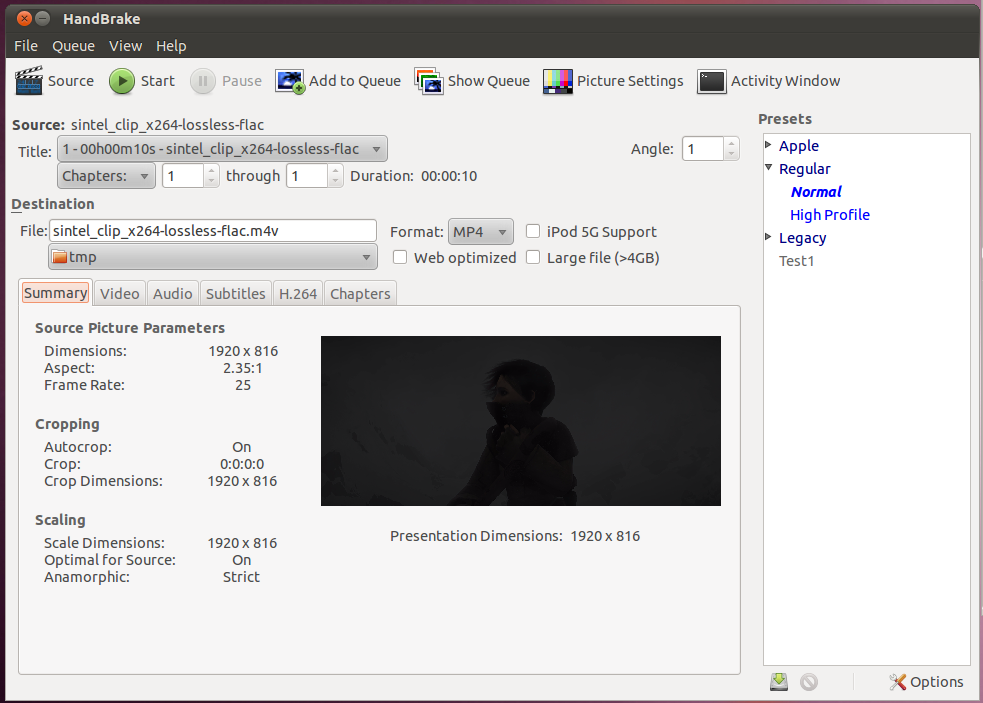
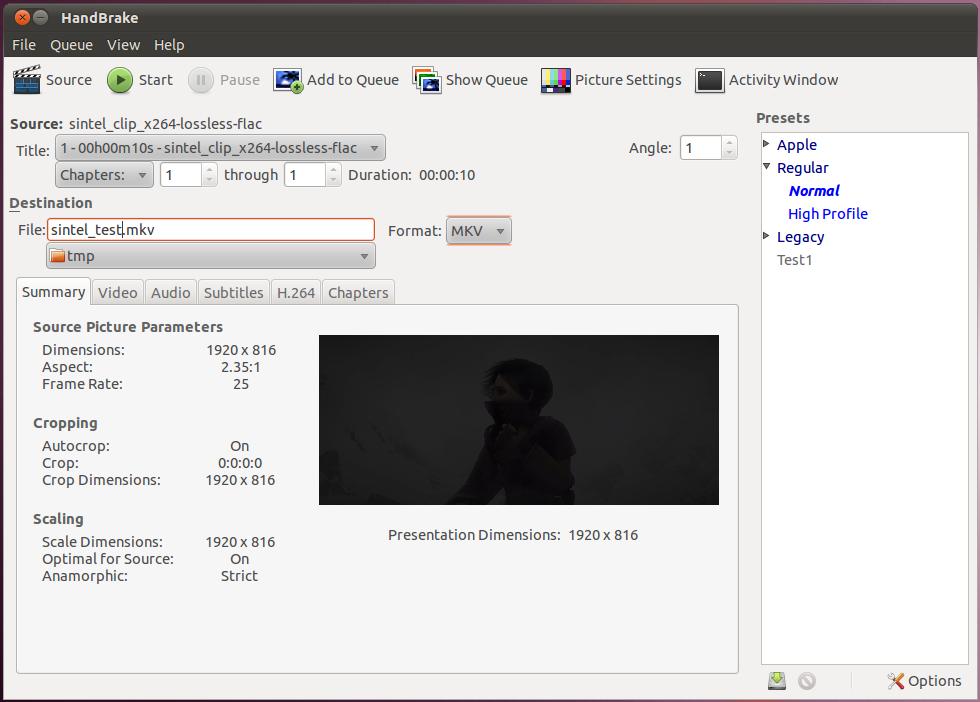
Handbrake section.

diff --git a/Video/Video-4-Handbrake.html b/Video/Video-4-Handbrake.html
@@ -1,5 +1,128 @@
-<h2>Handbrake&nbsp;</h2>Handbrake is a video transcoder that can take in video of one format (typical computer video, but also DVD or BluRay format) and output a video in one of several popular formats.<br><br>To show the conversion in action, we are going to open <a href="http://jp2-s1/vid_test/sintel_clip_x264-lossless-flac.mkv">this</a> (Institute Only) lossless segment of the sintel trailer, and use Handbrake to make a compressed version of it.<br><br>Lets start up Handbrake.<br><img src="Screen/Handbrake.png" alt="Handbrake.png"><br>Click the Source button and load the video we want to convert.<br><br>Once the video is loaded, you will see a lot of the information on the screen populated.<br><img src="Screen/Handbrake-Loaded.png" alt="Handbrake-Loaded.png"><br>The "Source:" section contains information about our video.&nbsp; In this case, it says it is 10 seconds long, and there is only one chapter and angle.&nbsp; For videos coming off of a DVD or BluRay this may have multiple chapters and/or angles.<br><br>The "Destination" has the file we will write the output to.&nbsp; The only two options are MP4 (MPEG 4) or MKV (Matroska).&nbsp; For MP4, it is possible to check the "Web optimized" box.&nbsp; This puts information about the video in the front of the file, so if you put it on a web-page it can start playing before the entire video has been downloaded.<br><br>On the summary tab, there is information about the input video, specifically dimensions (which give the aspect ratio) and the frame rate.&nbsp; <br><br>Going to the video tab gives us options for compressing the video. <br><br><br>
+<!DOCTYPE HTML PUBLIC "-//W3C//DTD HTML 4.01 Transitional//EN">
+<html><head>
+  <title>Video - 4 - Handbrake</title>
+
+  
+</head><body>
+<h2>Handbrake&nbsp;</h2>
+
+Handbrake is a video transcoder that can take in video of one format
+(typical computer video, but also DVD or BluRay format) and output a
+video in one of several popular formats.<br>
+
+<br>
+
+To show the conversion in action, we are going to open <a href="http://jp2-s1/vid_test/sintel_clip_x264-lossless-flac.mkv">this</a>
+(Institute Only) lossless segment of the sintel trailer, and use
+Handbrake to make a compressed version of it.<br>
+
+<br>
+
+Lets start up Handbrake.<br>
+
+<img src="Screen/Handbrake.png" alt="Handbrake.png"><br>
+
+Click the Source button and load the video we want to convert.<br>
+
+<br>
+
+Once the video is loaded, you will see a lot of the information on the
+screen populated.<br>
+
+<img src="Screen/Handbrake-Loaded.png" alt="Handbrake-Loaded.png"><br>
+
+The "Source:" section contains information about our video.&nbsp; In
+this case, it says it is 10 seconds long, and there is only one chapter
+and angle.&nbsp; For videos coming off of a DVD or BluRay this may have
+multiple chapters and/or angles.<br>
+
+<br>
+
+The "Destination" has the file we will write the output to.&nbsp; The
+only two options are MP4 (MPEG 4) or MKV (Matroska).&nbsp; For MP4, it
+is possible to check the "Web optimized" box.&nbsp; This puts
+information about the video in the front of the file, so if you put it
+on a web-page it can start playing before the entire video has been
+downloaded.<br>
+
+<br>
+
+On the summary tab, there is information about the input video,
+specifically dimensions (which give the aspect ratio) and the frame
+rate.&nbsp; <br>
+
+<br>
+
+Going to the video tab gives us options for compressing the video. <br>
+
+<img style="width: 979px; height: 704px;" src="Screen/Handbrake-Video.png" alt="Handbrake-Video.png"><br>
+
+The video codec options that are available are: H.264, MPEG 4 (Part 2),
+and Theora (not availble with MP4).&nbsp; To the right, there are
+options for specifying how the encoder should determine the size of the
+file.&nbsp; You can set the average bit-rate that you desire, or you
+can set the size of the final file you would like and the encoder will
+figure out what bit-rate it can use.&nbsp; When either of these options
+are set, you can enable 2-Pass encoding with the check-box on the left.
+There is also a third option which is to set the quality of the final
+video.&nbsp; Smaller numbers mean higher quality and higher file size,
+lower numbers are lower quality and file size.&nbsp; <br>
+
+<br>
+
+<img src="Screen/Handbrake-Audio.png" alt="Handbrake-Audio.png"><br>
+
+On the Audio tab are the options for encoding each track of
+audio.&nbsp; Handbrake will allow you to put multiple tracks of audio
+into one file (multiple languages, a track with the director's
+comentary, etc) that the viewer can then select while they are watching
+the video.&nbsp; For each track of audio, a codec (AAC, MP3, Vorbis
+(only available in MKV format), or AC3) can be selected along with a
+bit-rate.&nbsp; <br>
+
+<br>
+
+<img src="Screen/Handbrake-Subtitles.png" alt="Handbrake-Subtitles.png"><br>
+
+The subtitles page is similar to the audio page, in that you can have
+several subtitle tracks built in to the single video file.&nbsp; You
+can use any subtitles from the source, or add external ones from a .srt
+file.&nbsp; <br>
+
+<br>
+
+<img src="Screen/Handbrake-Dimensions.png" alt="Handbrake-Dimensions.png"><br>
+
+By clicking the Picture Settings button at the top of the application,
+it is possible to change the dimensions of the video, by cropping or
+stretching the video.&nbsp; <br>
+
+<br>
+
+<img src="Screen/Handbrake-Filters.png" alt="Handbrake-Filters.png"><br>
+
+Finally, by going to the filters tab of the pictures settings, it is
+possible to apply some simple filters.&nbsp; The most important of
+which would be "Deinterlace" which will fix interlaced video for use on
+a computer screen.&nbsp; <br>
+
+<br>
+
+Once you have all the settings correct, hit the Start button at the
+top, and the encoding will start.&nbsp; You will see the status of the
+encoding along the bottom.<br>
+
+<img src="Screen/Handbrake-Encoding.png" alt="Handbrake-Encoding.png"><br>
+
+<br>
+
+<br>
+
+<br>
+
 http://www.archive.org/download/BigBuckBunny/big-buck-bunny-NTSC.iso<br>
+
 Open Big Buck Bunny .iso and show DVD -&gt; File options<br>
 
 Add subtitles to elephants dream?
+</body></html>
